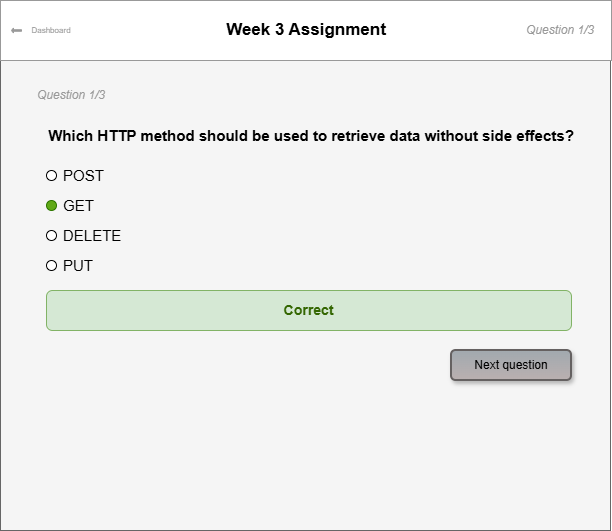
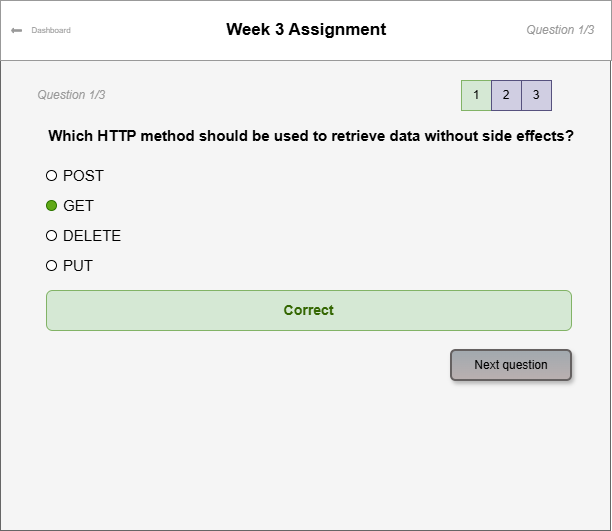
fix: add progress bar to assignment view

Changed region(s): [[0.7451, 0.1507, 0.9003, 0.2109]]

diff --git a/README.md b/README.md
@@ -43,7 +43,7 @@ Phase 1 - research and setup.
 **Login**
 
 
-![Login](docs/wireframes/Login.png)
+![Login](docs/wireframes/login.png)
 
 
 **Student dashboard**
@@ -56,4 +56,10 @@ Phase 1 - research and setup.
 
 
 ![Assignment view](docs/wireframes/assignment-view.png)
+
+
+**Assignment view**
+
+
+![Exam view](docs/wireframes/exam.png)
 